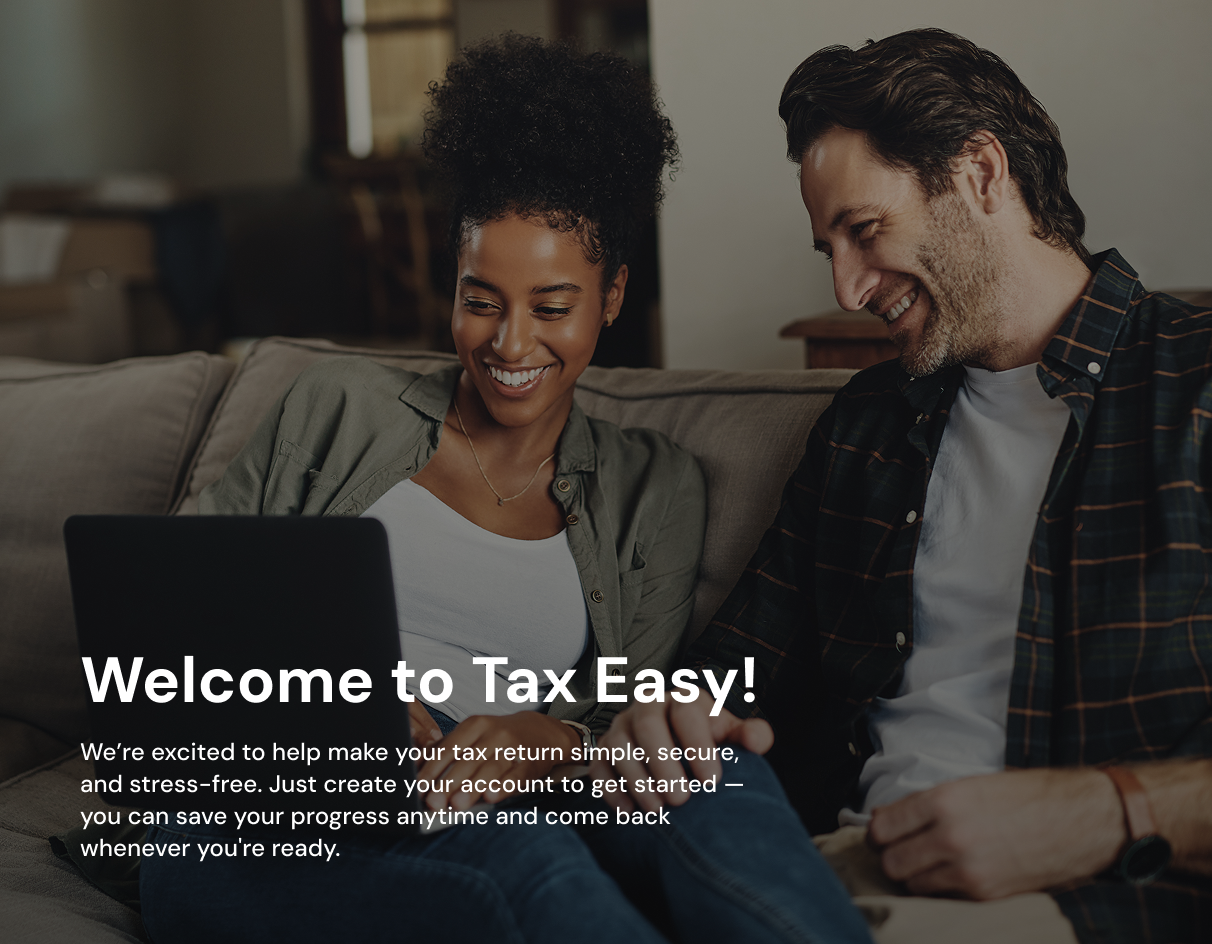
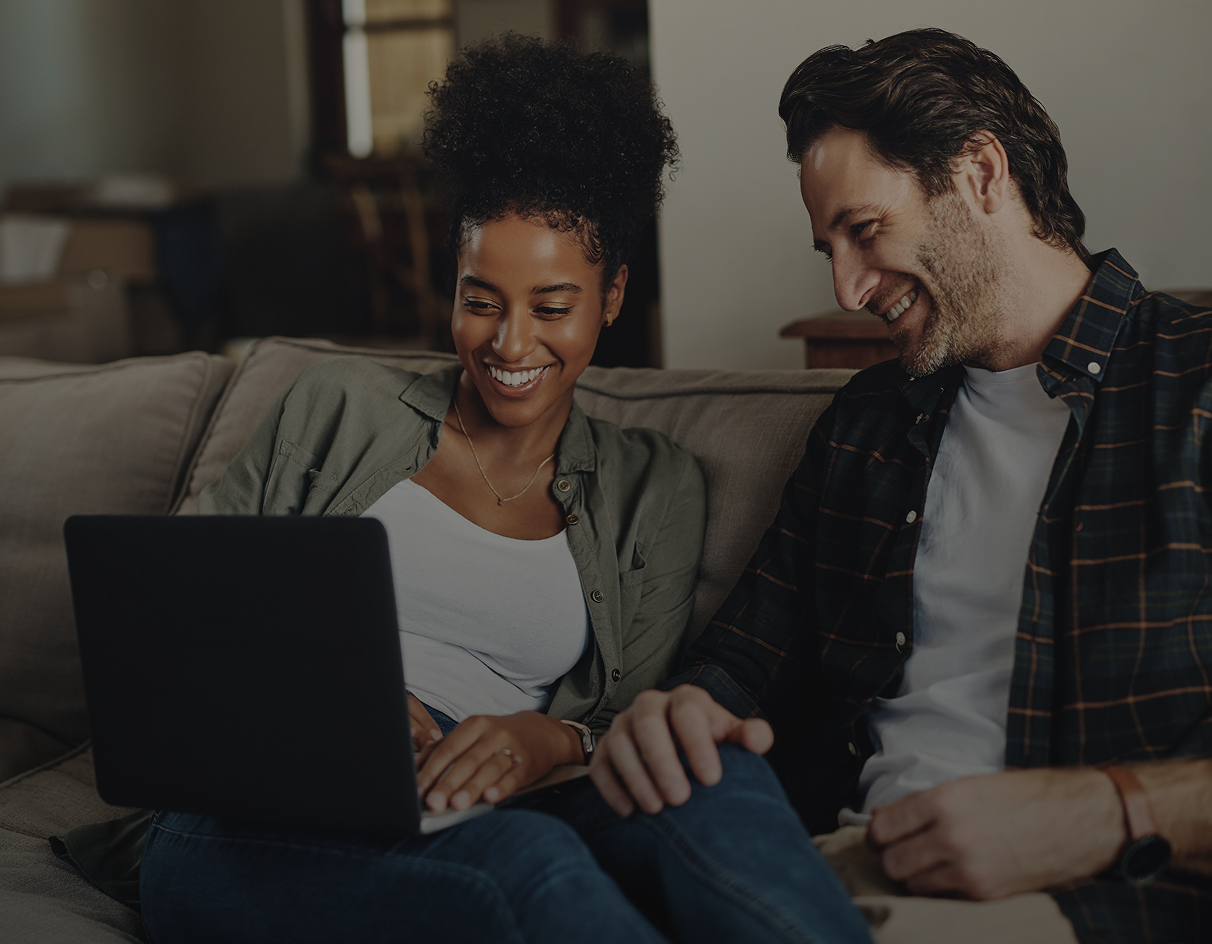
Fixed bug

Changed region(s): [[0.0611, 0.6758, 0.6411, 0.9216]]

diff --git a/public/css/app.css b/public/css/app.css
@@ -719,4 +719,32 @@ footer a:hover {
 .form-check .form-check-input {
     margin-top: 10px;
 }
+
+.sign_bg {
+    position: absolute;
+    bottom: 0;
+    left: 0;
+    padding: 10px;
+    font-size: 14px;
+    color: #ffffff;
+    max-width: 700px;
+}
+
+.sign_bg > h1 {
+    font-family: DM Sans;
+    font-weight: 700;
+    font-size: 64px;
+    line-height: 80px;
+    letter-spacing: 0.1px;
+    vertical-align: middle;
+}
+
+.sign_bg > h2 {
+    font-family: DM Sans;
+    font-weight: 500;
+    font-size: 24px;
+    line-height: 32px;
+    letter-spacing: 0.1px;
+    vertical-align: middle;
+}
 /* End sign pahge */

diff --git a/public/css/responsive/media-992.css b/public/css/responsive/media-992.css
@@ -167,4 +167,19 @@
         line-height: 54px;
         text-align: center;
     }
+
+    .sign_bg {
+        padding: 8px;
+        max-width: 600px;
+    }
+
+    .sign_bg > h1 {
+        font-size: 48px;
+        line-height: 60px;
+    }
+
+    .sign_bg > h2 {
+        font-size: 20px;
+        line-height: 28px;
+    }
 }

diff --git a/public/css/responsive/media-576.css b/public/css/responsive/media-576.css
@@ -211,4 +211,19 @@
         margin-bottom: 24px;
         padding: 0 16px;
     }
+
+    .sign_bg {
+        padding: 4px;
+        max-width: 100%;
+    }
+
+    .sign_bg > h1 {
+        font-size: 28px;
+        line-height: 36px;
+    }
+
+    .sign_bg > h2 {
+        font-size: 16px;
+        line-height: 22px;
+    }
 }

diff --git a/public/css/responsive/media-768.css b/public/css/responsive/media-768.css
@@ -210,4 +210,19 @@
         font-size: 32px;
         line-height: 44px;
     }
+
+    .sign_bg {
+        padding: 6px;
+        max-width: 100%;
+    }
+
+    .sign_bg > h1 {
+        font-size: 36px;
+        line-height: 48px;
+    }
+
+    .sign_bg > h2 {
+        font-size: 18px;
+        line-height: 24px;
+    }
 }

diff --git a/resources/views/auth/register.blade.php b/resources/views/auth/register.blade.php
@@ -3,8 +3,12 @@
 @section('content')
 <div class="container-fluid">
     <div class="row align-items-center">
-        <div class="col-lg-8 ps-0 pe-0 d-md-block d-none">
+        <div class="col-lg-8 ps-0 pe-0 mb-lg-0 mb-5 position-relative">
             <img src="{{ asset('img/sign_bg.png') }}" class="img-fluid" alt="">
+            <div class="sign_bg">
+                <h1>Welcome to Tax Easy!</h1>
+                <h2>We’re excited to help make your tax return simple, secure, and stress-free. Just create your account to get started — you can save your progress anytime and come back whenever you're ready.</h2>
+            </div>
         </div>
         <div class="col-lg-4 ps-0 pe-0">
             <div class="text-center w-100" style="margin-bottom: 40px;">

diff --git a/resources/views/auth/login.blade.php b/resources/views/auth/login.blade.php
@@ -3,8 +3,12 @@
 @section('content')
 <div class="container-fluid">
     <div class="row align-items-center">
-        <div class="col-lg-8 ps-0 pe-0 d-md-block d-none">
+        <div class="col-lg-8 ps-0 pe-0 mb-lg-0 mb-5 position-relative">
             <img src="{{ asset('img/sign_bg.png') }}" class="img-fluid" alt="">
+            <div class="sign_bg">
+                <h1>Welcome to Tax Easy!</h1>
+                <h2>We're here to help you finish or review your tax return whenever you're ready. Secure, fast, and always saved for you.</h2>
+            </div>
         </div>
         <div class="col-lg-4 ps-0 pe-0">
             <div class="text-center w-100" style="margin-bottom: 40px;">
